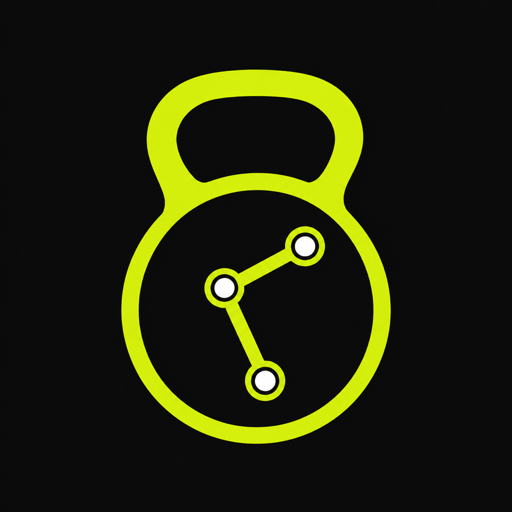
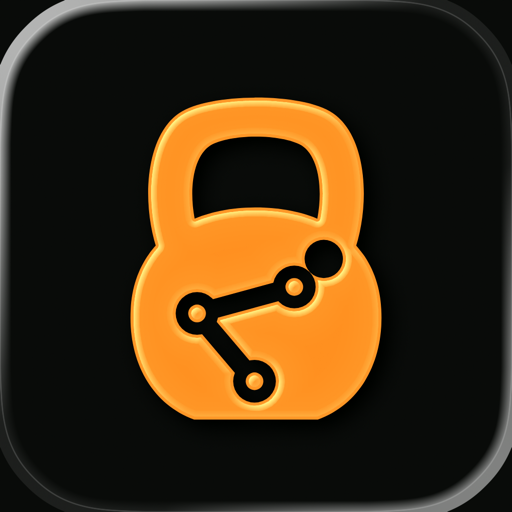
Move the SwingCoach site to the orange brand with the live store screenshots

diff --git a/swingcoach/index.html b/swingcoach/index.html
@@ -8,7 +8,7 @@
     <meta name="author" content="Abdelrahman Eita">
     <link rel="canonical" href="https://yoloabdo.com/swingcoach/">
     <meta name="apple-itunes-app" content="app-id=6806616079">
-    <meta name="theme-color" content="#0A0C0A">
+    <meta name="theme-color" content="#0A0A0A">
     <meta name="robots" content="index, follow">
     <link rel="help" href="/llms.txt" type="text/plain" title="LLM context">
     <link rel="icon" type="image/png" sizes="32x32" href="/swingcoach/favicon-32.png">
@@ -31,8 +31,8 @@
 
     <script type="application/ld+json">
     { "@context": "https://schema.org", "@graph": [
-        {"@type": "MobileApplication", "@id": "https://yoloabdo.com/swingcoach/#app", "name": "SwingCoach: Kettlebell Workout", "alternateName": ["SwingCoach", "Kettlebell swing rep counter"], "description": "A kettlebell workout app for the Russian swing. The iPhone camera counts each rep and checks your form, with spoken cues, a five-swing form check, a three-session starter plan, daily swing challenges, rep review and an optional Apple Watch app. Free, with no account and no ads.", "applicationCategory": "HealthApplication", "operatingSystem": "iOS 17 or later", "url": "https://yoloabdo.com/swingcoach/", "installUrl": "https://apps.apple.com/us/app/swingcoach-kettlebell-workout/id6806616079", "image": "https://yoloabdo.com/swingcoach/app-icon.png", "screenshot": ["https://yoloabdo.com/swingcoach/shot-01.webp", "https://yoloabdo.com/swingcoach/shot-02.webp", "https://yoloabdo.com/swingcoach/shot-03.webp", "https://yoloabdo.com/swingcoach/shot-04.webp", "https://yoloabdo.com/swingcoach/shot-05.webp", "https://yoloabdo.com/blog/kettlebell-workout-app-hands-free/train-workouts.webp"], "softwareVersion": "1.2.1", "featureList": ["Live kettlebell swing rep count from the iPhone camera", "Spoken form cues when a fault repeats", "Five-swing form check and a three-session starter plan", "Daily swing challenges: 50, 100 or 200 swings a day, with an optional daily reminder", "Open training and rep goal workouts", "Rep review with hip, knee and arm angles", "Optional Apple Watch app with heart rate, active calories and Apple Health", "No account. Pose analysis runs on the iPhone."], "author": {"@type": "Person", "@id": "https://yoloabdo.com/#person", "name": "Abdelrahman Eita", "url": "https://yoloabdo.com/"}, "offers": {"@type": "Offer", "price": "0", "priceCurrency": "USD"}},
-        {"@type": "WebPage", "@id": "https://yoloabdo.com/swingcoach/#webpage", "url": "https://yoloabdo.com/swingcoach/", "name": "SwingCoach: kettlebell swing rep counter and form check", "inLanguage": "en", "dateModified": "2026-11-16", "about": {"@id": "https://yoloabdo.com/swingcoach/#app"}, "primaryImageOfPage": "https://yoloabdo.com/swingcoach/og-image.jpg"},
+        {"@type": "MobileApplication", "@id": "https://yoloabdo.com/swingcoach/#app", "name": "SwingCoach: Kettlebell Workout", "alternateName": ["SwingCoach", "Kettlebell swing rep counter"], "description": "A kettlebell workout app for the Russian swing. The iPhone camera counts each rep and checks your form, with spoken cues, a five-swing form check, a three-session starter plan, daily swing challenges, rep review and an optional Apple Watch app. Free, with no account and no ads.", "applicationCategory": "HealthApplication", "operatingSystem": "iOS 17 or later", "url": "https://yoloabdo.com/swingcoach/", "installUrl": "https://apps.apple.com/us/app/swingcoach-kettlebell-workout/id6806616079", "image": "https://yoloabdo.com/swingcoach/app-icon.png", "screenshot": ["https://yoloabdo.com/swingcoach/shot-01.webp", "https://yoloabdo.com/swingcoach/shot-02.webp", "https://yoloabdo.com/swingcoach/shot-03.webp", "https://yoloabdo.com/swingcoach/shot-04.webp", "https://yoloabdo.com/swingcoach/shot-05.webp", "https://yoloabdo.com/swingcoach/shot-06.webp", "https://yoloabdo.com/blog/kettlebell-workout-app-hands-free/train-workouts.webp"], "softwareVersion": "1.2.1", "featureList": ["Live kettlebell swing rep count from the iPhone camera", "Spoken form cues when a fault repeats", "Five-swing form check and a three-session starter plan", "Daily swing challenges: 50, 100 or 200 swings a day, with an optional daily reminder", "Open training and rep goal workouts", "Rep review with hip, knee and arm angles", "Optional Apple Watch app with heart rate, active calories and Apple Health", "No account. Pose analysis runs on the iPhone."], "author": {"@type": "Person", "@id": "https://yoloabdo.com/#person", "name": "Abdelrahman Eita", "url": "https://yoloabdo.com/"}, "offers": {"@type": "Offer", "price": "0", "priceCurrency": "USD"}},
+        {"@type": "WebPage", "@id": "https://yoloabdo.com/swingcoach/#webpage", "url": "https://yoloabdo.com/swingcoach/", "name": "SwingCoach: kettlebell swing rep counter and form check", "inLanguage": "en", "dateModified": "2026-11-21", "about": {"@id": "https://yoloabdo.com/swingcoach/#app"}, "primaryImageOfPage": "https://yoloabdo.com/swingcoach/og-image.jpg"},
         {"@type": "BreadcrumbList", "itemListElement": [{"@type": "ListItem", "position": 1, "name": "Home", "item": "https://yoloabdo.com/"}, {"@type": "ListItem", "position": 2, "name": "SwingCoach", "item": "https://yoloabdo.com/swingcoach/"}]},
         {"@type": "FAQPage", "mainEntity": [
             {"@type": "Question", "name": "Do I need an Apple Watch?", "acceptedAnswer": {"@type": "Answer", "text": "No. The iPhone camera does the counting. With a paired Apple Watch, you also see heart rate and active calories, control the workout from your wrist, and save the workout to Apple Health."}},
@@ -46,7 +46,7 @@
     <link rel="preconnect" href="https://fonts.googleapis.com">
     <link rel="preconnect" href="https://fonts.gstatic.com" crossorigin>
     <link href="https://fonts.googleapis.com/css2?family=Space+Grotesk:wght@400;500;600;700&family=DM+Sans:wght@400;500;600&display=swap" rel="stylesheet">
-    <link rel="stylesheet" href="/swingcoach/assets/home.css">
+    <link rel="stylesheet" href="/swingcoach/assets/home.css?v=20261121">
     <script>/* No Google Analytics on local hosts or on a device opted out with ?notrack (undo with ?track) */(function(){var q=location.search,off=/^(localhost|127\.0\.0\.1|\[::1\]|)$/.test(location.hostname)||/[?&]notrack\b/.test(q);try{if(/[?&]notrack\b/.test(q))localStorage.setItem("notrack","1");if(/[?&]track\b/.test(q))localStorage.removeItem("notrack");off=off||!!localStorage.getItem("notrack")}catch(e){}if(off)window["ga-disable-G-MKWK9CX2JJ"]=true})();</script>
     <script async src="https://www.googletagmanager.com/gtag/js?id=G-MKWK9CX2JJ"></script>
     <script>window.dataLayer = window.dataLayer || []; function gtag(){dataLayer.push(arguments);} gtag("js", new Date()); gtag("config", "G-MKWK9CX2JJ");</script>
@@ -88,10 +88,10 @@
             </div>
             <div class="showcase" aria-label="SwingCoach screenshots">
                 <div class="shot">
-                    <img src="/swingcoach/shot-01.webp" srcset="/swingcoach/shot-01-330.webp 330w, /swingcoach/shot-01.webp 660w" sizes="250px" alt="Live workout with a 19 of 30 rep count and a coach cue" width="660" height="1434" fetchpriority="high">
+                    <img src="/swingcoach/shot-01.webp" srcset="/swingcoach/shot-01-330.webp 330w, /swingcoach/shot-01.webp 660w" sizes="250px" alt="It's all in the hips: SwingCoach counts each kettlebell swing" width="660" height="1434" fetchpriority="high">
                 </div>
                 <div class="shot">
-                    <img src="/swingcoach/shot-05.webp" srcset="/swingcoach/shot-05-330.webp 330w, /swingcoach/shot-05.webp 660w" sizes="250px" alt="Live workout on iPhone with heart rate and calories on Apple Watch" width="660" height="1434" decoding="async">
+                    <img src="/swingcoach/shot-04.webp" srcset="/swingcoach/shot-04-330.webp 330w, /swingcoach/shot-04.webp 660w" sizes="250px" alt="Your whole set at a glance: 20 swings in 0:52" width="660" height="1434" decoding="async">
                 </div>
             </div>
         </div>
@@ -156,11 +156,12 @@
         <section class="gallery-section" aria-label="Screenshots">
             <div class="wrap">
                 <div class="gallery">
-                    <div class="shot"><img src="/swingcoach/shot-01-330.webp" srcset="/swingcoach/shot-01-330.webp 330w, /swingcoach/shot-01.webp 660w" sizes="236px" alt="Camera counts each swing: live rep count" width="330" height="717" loading="lazy"></div>
-                    <div class="shot"><img src="/swingcoach/shot-02-330.webp" srcset="/swingcoach/shot-02-330.webp 330w, /swingcoach/shot-02.webp 660w" sizes="236px" alt="Rep review with the deepest hinge and final lockout angles" width="330" height="717" loading="lazy"></div>
-                    <div class="shot"><img src="/swingcoach/shot-03-330.webp" srcset="/swingcoach/shot-03-330.webp 330w, /swingcoach/shot-03.webp 660w" sizes="236px" alt="First-week plan with three starter sessions" width="330" height="717" loading="lazy"></div>
-                    <div class="shot"><img src="/swingcoach/shot-04-330.webp" srcset="/swingcoach/shot-04-330.webp 330w, /swingcoach/shot-04.webp 660w" sizes="236px" alt="Start training with open training or a rep goal" width="330" height="717" loading="lazy"></div>
-                    <div class="shot"><img src="/swingcoach/shot-05-330.webp" srcset="/swingcoach/shot-05-330.webp 330w, /swingcoach/shot-05.webp 660w" sizes="236px" alt="Heart rate and calories on Apple Watch during a workout" width="330" height="717" loading="lazy"></div>
+                    <div class="shot"><img src="/swingcoach/shot-01-330.webp" srcset="/swingcoach/shot-01-330.webp 330w, /swingcoach/shot-01.webp 660w" sizes="236px" alt="It's all in the hips: SwingCoach counts each kettlebell swing" width="330" height="717" loading="lazy"></div>
+                    <div class="shot"><img src="/swingcoach/shot-02-330.webp" srcset="/swingcoach/shot-02-330.webp 330w, /swingcoach/shot-02.webp 660w" sizes="236px" alt="See your hinge, rep by rep: hip and knee angles for one swing" width="330" height="717" loading="lazy"></div>
+                    <div class="shot"><img src="/swingcoach/shot-03-330.webp" srcset="/swingcoach/shot-03-330.webp 330w, /swingcoach/shot-03.webp 660w" sizes="236px" alt="Start with three short sessions: the starter program" width="330" height="717" loading="lazy"></div>
+                    <div class="shot"><img src="/swingcoach/shot-04-330.webp" srcset="/swingcoach/shot-04-330.webp 330w, /swingcoach/shot-04.webp 660w" sizes="236px" alt="Your whole set at a glance: 20 swings in 0:52" width="330" height="717" loading="lazy"></div>
+                    <div class="shot"><img src="/swingcoach/shot-05-330.webp" srcset="/swingcoach/shot-05-330.webp 330w, /swingcoach/shot-05.webp 660w" sizes="236px" alt="Done swinging? Stand still, and SwingCoach asks to end the workout" width="330" height="717" loading="lazy"></div>
+                    <div class="shot"><img src="/swingcoach/shot-06-330.webp" srcset="/swingcoach/shot-06-330.webp 330w, /swingcoach/shot-06.webp 660w" sizes="236px" alt="Form checks stay on iPhone. No account needed" width="330" height="717" loading="lazy"></div>
                     <div class="shot"><img src="/blog/kettlebell-workout-app-hands-free/train-workouts-720.webp" srcset="/blog/kettlebell-workout-app-hands-free/train-workouts-720.webp 720w, /blog/kettlebell-workout-app-hands-free/train-workouts.webp 1080w" sizes="236px" alt="SwingCoach 1.2 Train screen with the rep goal dial, starter program, open training and swing ladder" width="1080" height="2347" loading="lazy"></div>
                 </div>
             </div>

diff --git a/blog/swingcoach-kettlebell-swing-counter-launch/index.html b/blog/swingcoach-kettlebell-swing-counter-launch/index.html
@@ -153,8 +153,8 @@
                 <p>For me, this is where mobile wins. The camera gives the form, and the watch sensors give the effort. Together they tell a fuller story of each set. The watch is optional. The iPhone does the counting without it.</p>
                 <figure>
                     <div style="display: flex; gap: 14px; justify-content: center; align-items: flex-start">
-                        <img src="/swingcoach/shot-05-330.webp" srcset="/swingcoach/shot-05-330.webp 330w, /swingcoach/shot-05.webp 660w" sizes="(max-width: 720px) 30vw, 220px" width="660" height="1434" style="width: calc((100% - 28px) / 3); aspect-ratio: 660 / 1434" loading="lazy" decoding="async" alt="SwingCoach live workout on iPhone with heart rate and calories on Apple Watch">
-                        <img src="/swingcoach/shot-04-330.webp" srcset="/swingcoach/shot-04-330.webp 330w, /swingcoach/shot-04.webp 660w" sizes="(max-width: 720px) 30vw, 220px" width="660" height="1434" style="width: calc((100% - 28px) / 3); aspect-ratio: 660 / 1434" loading="lazy" decoding="async" alt="SwingCoach start screen with open training or a rep goal">
+                        <img src="/blog/swingcoach-kettlebell-swing-counter-launch/launch-shot-05-330.webp" srcset="/blog/swingcoach-kettlebell-swing-counter-launch/launch-shot-05-330.webp 330w, /blog/swingcoach-kettlebell-swing-counter-launch/launch-shot-05.webp 660w" sizes="(max-width: 720px) 30vw, 220px" width="660" height="1434" style="width: calc((100% - 28px) / 3); aspect-ratio: 660 / 1434" loading="lazy" decoding="async" alt="SwingCoach live workout on iPhone with heart rate and calories on Apple Watch">
+                        <img src="/blog/swingcoach-kettlebell-swing-counter-launch/launch-shot-04-330.webp" srcset="/blog/swingcoach-kettlebell-swing-counter-launch/launch-shot-04-330.webp 330w, /blog/swingcoach-kettlebell-swing-counter-launch/launch-shot-04.webp 660w" sizes="(max-width: 720px) 30vw, 220px" width="660" height="1434" style="width: calc((100% - 28px) / 3); aspect-ratio: 660 / 1434" loading="lazy" decoding="async" alt="SwingCoach start screen with open training or a rep goal">
                     </div>
                     <figcaption>Heart rate and calories on the watch, and the choice between open training and a rep goal.</figcaption>
                 </figure>

diff --git a/swingcoach/privacy/index.html b/swingcoach/privacy/index.html
@@ -22,7 +22,7 @@
     <link rel="icon" type="image/png" sizes="32x32" href="/swingcoach/favicon-32.png">
     <link rel="apple-touch-icon" sizes="180x180" href="/swingcoach/apple-touch-icon.png">
     <meta name="robots" content="index, follow">
-    <meta name="theme-color" content="#0A0C0A">
+    <meta name="theme-color" content="#0A0A0A">
     <script type="application/ld+json">
     { "@context": "https://schema.org", "@type": "BreadcrumbList", "itemListElement": [
         { "@type": "ListItem", "position": 1, "name": "Home", "item": "https://yoloabdo.com/" },
@@ -34,7 +34,7 @@
     <link rel="preconnect" href="https://fonts.gstatic.com" crossorigin>
     <link href="https://fonts.googleapis.com/css2?family=Space+Grotesk:wght@400;500;600;700&family=DM+Sans:wght@400;500;600&display=swap" rel="stylesheet">
 
-    <link rel="stylesheet" href="/swingcoach/assets/page.css">
+    <link rel="stylesheet" href="/swingcoach/assets/page.css?v=20261121">
     <script>/* No Google Analytics on local hosts or on a device opted out with ?notrack (undo with ?track) */(function(){var q=location.search,off=/^(localhost|127\.0\.0\.1|\[::1\]|)$/.test(location.hostname)||/[?&]notrack\b/.test(q);try{if(/[?&]notrack\b/.test(q))localStorage.setItem("notrack","1");if(/[?&]track\b/.test(q))localStorage.removeItem("notrack");off=off||!!localStorage.getItem("notrack")}catch(e){}if(off)window["ga-disable-G-MKWK9CX2JJ"]=true})();</script>
     <script async src="https://www.googletagmanager.com/gtag/js?id=G-MKWK9CX2JJ"></script>
     <script>window.dataLayer = window.dataLayer || []; function gtag(){dataLayer.push(arguments);} gtag("js", new Date()); gtag("config", "G-MKWK9CX2JJ");</script>

diff --git a/swingcoach/support/index.html b/swingcoach/support/index.html
@@ -22,7 +22,7 @@
     <link rel="icon" type="image/png" sizes="32x32" href="/swingcoach/favicon-32.png">
     <link rel="apple-touch-icon" sizes="180x180" href="/swingcoach/apple-touch-icon.png">
     <meta name="robots" content="index, follow">
-    <meta name="theme-color" content="#0A0C0A">
+    <meta name="theme-color" content="#0A0A0A">
     <script type="application/ld+json">
     { "@context": "https://schema.org", "@type": "BreadcrumbList", "itemListElement": [
         { "@type": "ListItem", "position": 1, "name": "Home", "item": "https://yoloabdo.com/" },
@@ -48,7 +48,7 @@
     <link rel="preconnect" href="https://fonts.gstatic.com" crossorigin>
     <link href="https://fonts.googleapis.com/css2?family=Space+Grotesk:wght@400;500;600;700&family=DM+Sans:wght@400;500;600&display=swap" rel="stylesheet">
 
-    <link rel="stylesheet" href="/swingcoach/assets/page.css">
+    <link rel="stylesheet" href="/swingcoach/assets/page.css?v=20261121">
     <script>/* No Google Analytics on local hosts or on a device opted out with ?notrack (undo with ?track) */(function(){var q=location.search,off=/^(localhost|127\.0\.0\.1|\[::1\]|)$/.test(location.hostname)||/[?&]notrack\b/.test(q);try{if(/[?&]notrack\b/.test(q))localStorage.setItem("notrack","1");if(/[?&]track\b/.test(q))localStorage.removeItem("notrack");off=off||!!localStorage.getItem("notrack")}catch(e){}if(off)window["ga-disable-G-MKWK9CX2JJ"]=true})();</script>
     <script async src="https://www.googletagmanager.com/gtag/js?id=G-MKWK9CX2JJ"></script>
     <script>window.dataLayer = window.dataLayer || []; function gtag(){dataLayer.push(arguments);} gtag("js", new Date()); gtag("config", "G-MKWK9CX2JJ");</script>

diff --git a/swingcoach/assets/home.css b/swingcoach/assets/home.css
@@ -1,13 +1,13 @@
 :root {
-    --bg: #0A0C0A;
-    --surface: #141814;
-    --text: #F4F7F0;
-    --text-dim: #A9B0A4;
-    --text-muted: #7E8679;
-    --accent: #B8F242;
-    --accent-ink: #0A0C0A;
-    --accent-ink-dim: #2A3320;
-    --divider: #262B24;
+    --bg: #0A0A0A;
+    --surface: #171717;
+    --text: #F5F5F5;
+    --text-dim: #ADADAD;
+    --text-muted: #878787;
+    --accent: #FF8F1F;
+    --accent-ink: #000000;
+    --accent-ink-dim: #4A2A08;
+    --divider: #242424;
     --font-heading: 'Space Grotesk', sans-serif;
     --font-body: 'DM Sans', sans-serif;
 }
@@ -172,7 +172,7 @@ section h2 { font-size: clamp(32px, 4.2vw, 48px); line-height: 1.08; margin-bott
 .privacy-card p { color: var(--accent-ink-dim); font-size: 18px; margin-bottom: 20px; }
 .privacy-card a { color: var(--accent-ink); font-weight: 600; text-decoration: underline; text-underline-offset: 3px; }
 .privacy-card ul { list-style: none; display: flex; flex-direction: column; gap: 10px; }
-.privacy-card li { background: rgba(10, 12, 10, 0.08); border-radius: 12px; padding: 14px 18px; font-weight: 600; font-size: 16px; }
+.privacy-card li { background: rgba(0, 0, 0, 0.08); border-radius: 12px; padding: 14px 18px; font-weight: 600; font-size: 16px; }
 
 /* FAQ */
 .faq-list { max-width: 760px; }

diff --git a/swingcoach/assets/page.css b/swingcoach/assets/page.css
@@ -1,11 +1,11 @@
 :root {
-    --bg: #0A0C0A;
-    --surface: #141814;
-    --text: #F4F7F0;
-    --text-dim: #A9B0A4;
-    --text-muted: #7E8679;
-    --accent: #B8F242;
-    --divider: #262B24;
+    --bg: #0A0A0A;
+    --surface: #171717;
+    --text: #F5F5F5;
+    --text-dim: #ADADAD;
+    --text-muted: #878787;
+    --accent: #FF8F1F;
+    --divider: #242424;
     --font-heading: 'Space Grotesk', sans-serif;
     --font-body: 'DM Sans', sans-serif;
 }
